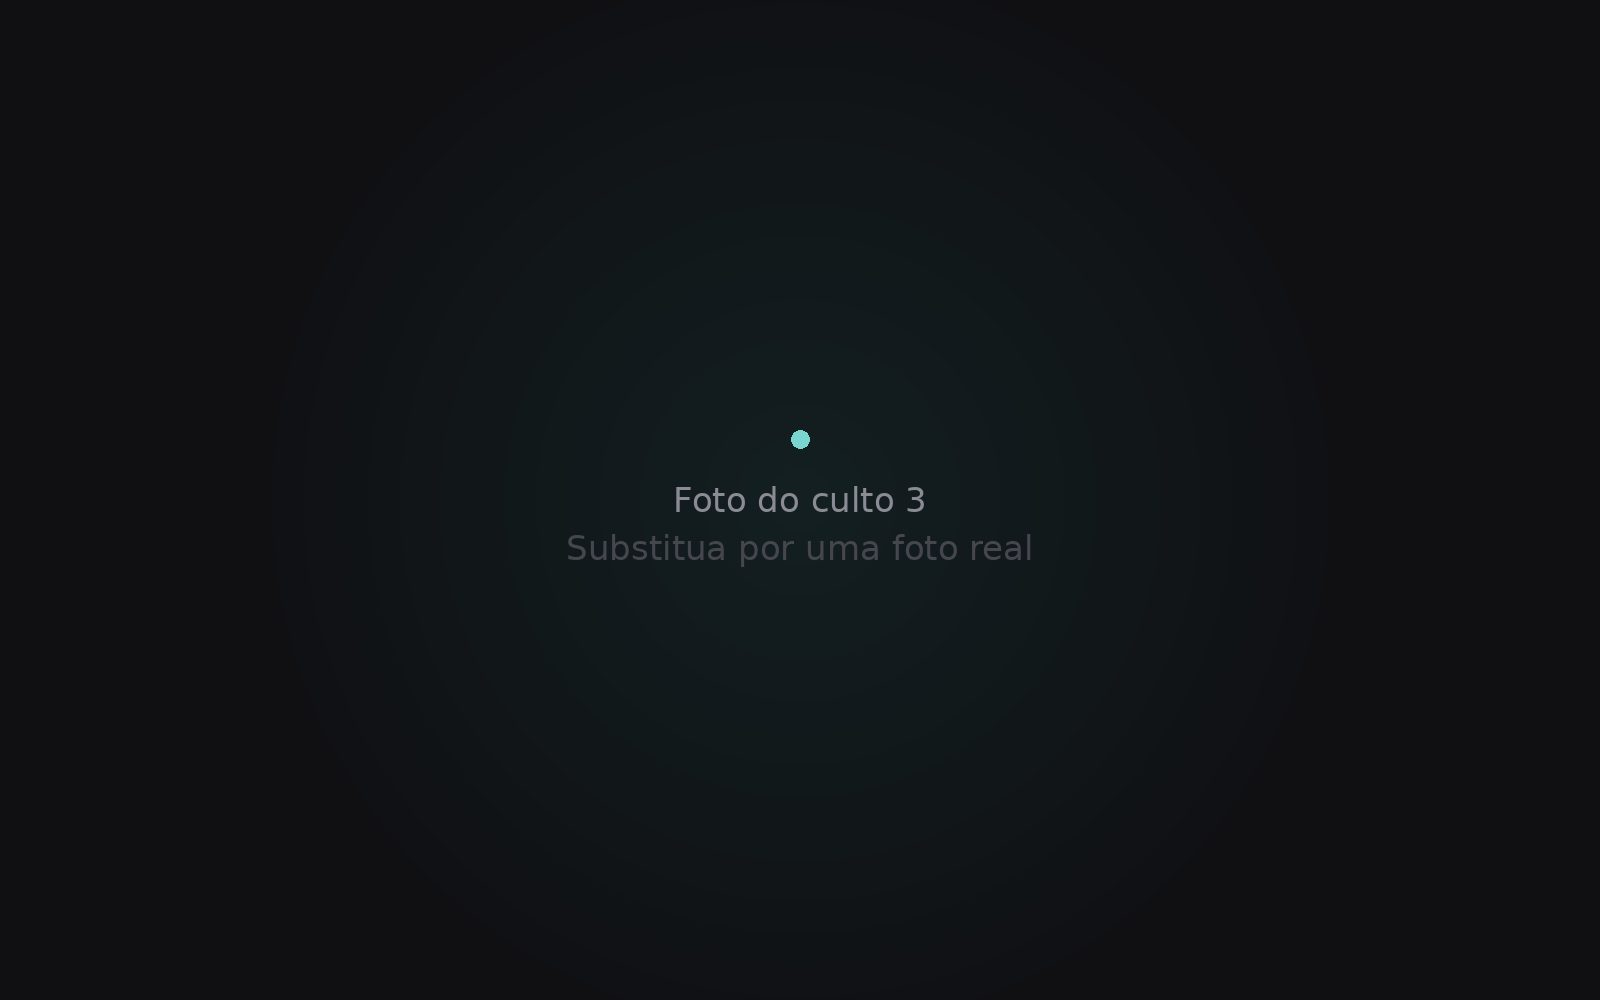
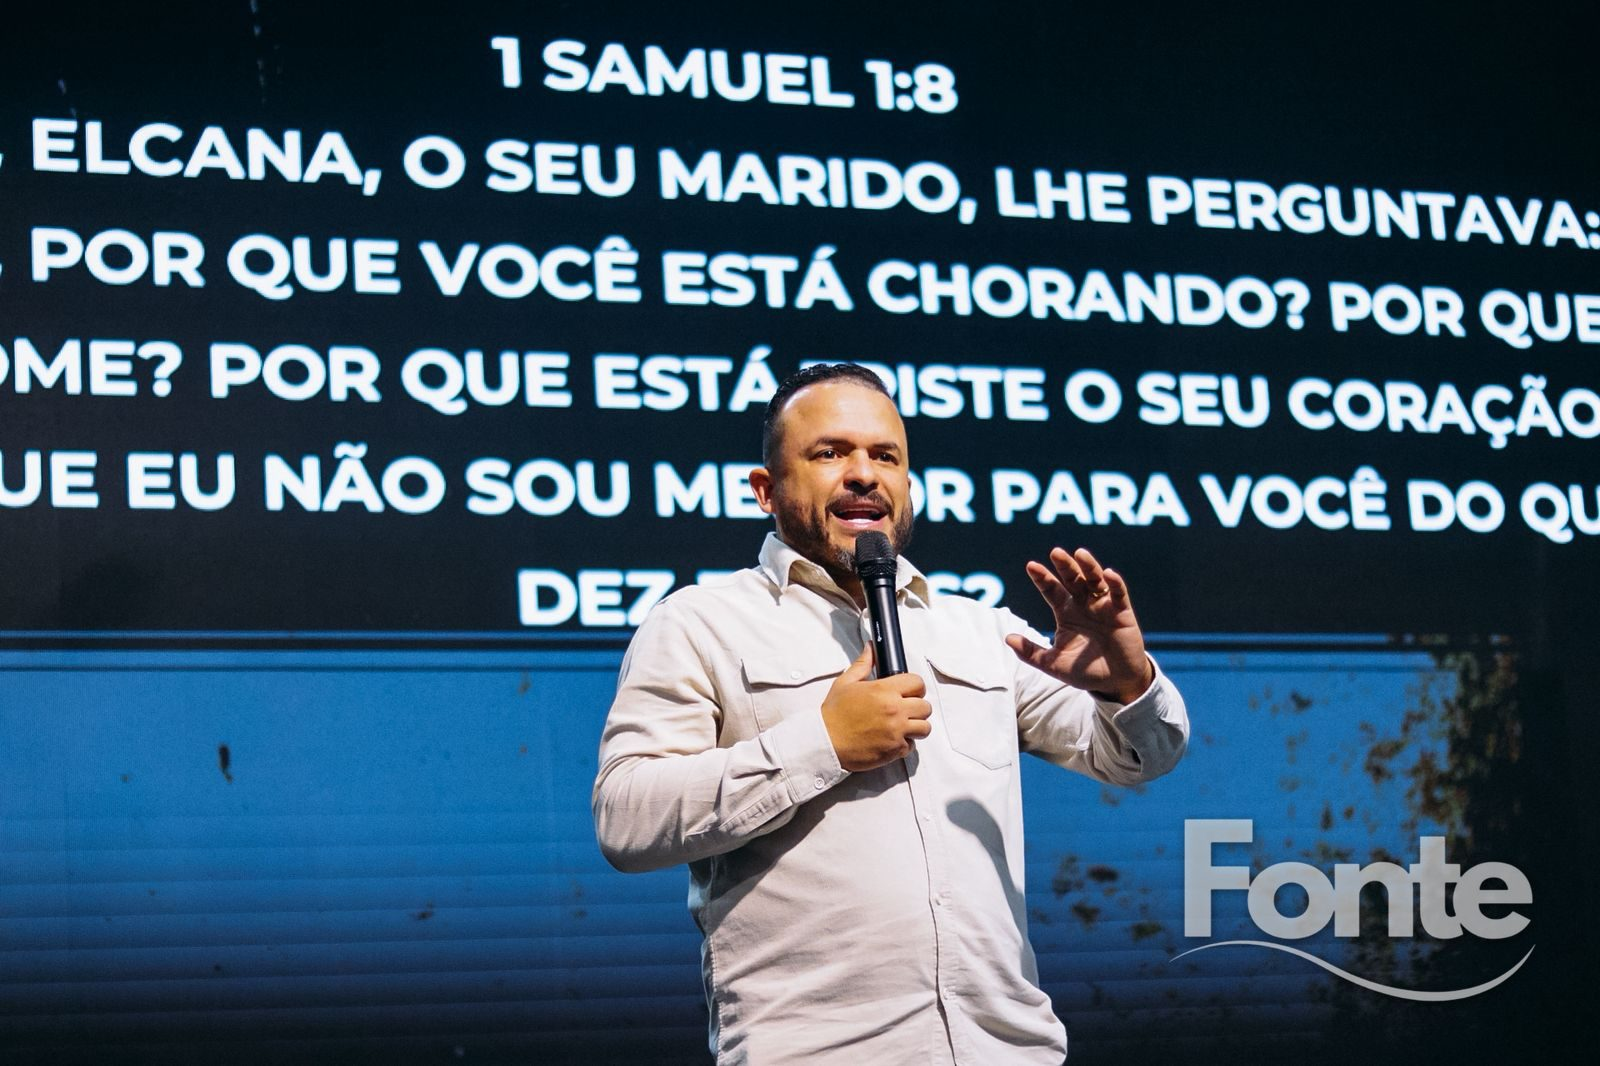
Fotos: marca dagua Fonte no canto

diff --git a/galeria.html b/galeria.html
@@ -20,48 +20,62 @@
   html{scroll-behavior:smooth}
   body{background:var(--abismo);color:var(--luz);font-family:var(--corpo);line-height:1.7;-webkit-font-smoothing:antialiased}
   a{color:inherit;text-decoration:none}
-  img{max-width:100%;display:block}
-  .top{position:sticky;top:0;z-index:10;background:rgba(10,10,11,.82);backdrop-filter:blur(10px);border-bottom:var(--borda)}
-  .top-in{max-width:960px;margin:0 auto;padding:16px 22px;display:flex;align-items:center;justify-content:space-between;gap:16px}
+  img{display:block;max-width:100%}
+  .top{position:sticky;top:0;z-index:20;background:rgba(10,10,11,.82);backdrop-filter:blur(10px);border-bottom:var(--borda)}
+  .top-in{max-width:1200px;margin:0 auto;padding:16px 22px;display:flex;align-items:center;justify-content:space-between;gap:16px}
   .logo{width:104px;height:40px;background:url('assets/fonte-logo.png') left center/contain no-repeat;display:block}
   .voltar{color:var(--cinza);font-size:.9rem;transition:color .2s}
   .voltar:hover{color:var(--luz)}
-  .wrap{max-width:960px;margin:0 auto;padding:56px 22px 40px}
+
+  /* ===== hero carrossel full-width ===== */
+  .hero-c{position:relative;width:100%;height:clamp(400px,70vh,720px);overflow:hidden;background:#000}
+  .hc-track{display:flex;height:100%;transition:transform .6s cubic-bezier(.4,0,.2,1);will-change:transform}
+  .hc-slide{flex:0 0 100%;height:100%}
+  .hc-slide img{width:100%;height:100%;object-fit:cover}
+  .hc-scrim{position:absolute;inset:0;pointer-events:none;
+            background:linear-gradient(to top,rgba(0,0,0,.6),transparent 42%),linear-gradient(to bottom,rgba(0,0,0,.35),transparent 30%)}
+  .hc-cap{position:absolute;left:0;right:0;bottom:0;padding:0 22px 40px;z-index:3}
+  .hc-cap .in{max-width:1200px;margin:0 auto}
+  .hc-cap .eyebrow{font-size:.72rem;letter-spacing:.22em;text-transform:uppercase;color:#dff4f2;font-weight:600;opacity:.9}
+  .hc-cap h1{font-family:var(--display);font-weight:700;font-size:clamp(2.2rem,6vw,4rem);line-height:1;margin-top:8px;text-shadow:0 2px 30px rgba(0,0,0,.5)}
+  .hc-nav{position:absolute;top:50%;transform:translateY(-50%);z-index:4;width:56px;height:56px;border:0;cursor:pointer;
+          background:transparent;color:#fff;font-size:3rem;line-height:1;opacity:.8;transition:opacity .2s,transform .2s;
+          text-shadow:0 2px 16px rgba(0,0,0,.6);display:flex;align-items:center;justify-content:center}
+  .hc-nav:hover{opacity:1}
+  .hc-nav.prev{left:6px} .hc-nav.prev:hover{transform:translateY(-50%) translateX(-3px)}
+  .hc-nav.next{right:6px} .hc-nav.next:hover{transform:translateY(-50%) translateX(3px)}
+  .hc-dots{position:absolute;left:0;right:0;bottom:16px;z-index:4;display:flex;gap:8px;justify-content:center;flex-wrap:wrap}
+  .hc-dot{width:8px;height:8px;border-radius:50%;background:rgba(255,255,255,.45);border:0;cursor:pointer;padding:0;transition:all .25s}
+  .hc-dot.on{background:var(--agua);width:24px;border-radius:100px}
+
+  /* ===== conteúdo ===== */
+  .wrap{max-width:1200px;margin:0 auto;padding:48px 22px 40px}
+  .intro{display:flex;flex-wrap:wrap;align-items:end;justify-content:space-between;gap:20px;margin-bottom:30px}
+  .intro .txt{max-width:56ch}
   .eyebrow{font-size:.72rem;letter-spacing:.22em;text-transform:uppercase;color:var(--cinza);font-weight:600}
-  h1{font-family:var(--display);font-weight:700;font-size:clamp(2rem,5vw,2.9rem);line-height:1.05;margin:10px 0 12px}
-  .sub{color:var(--cinza-claro);max-width:56ch;margin-bottom:22px}
-  .btn-drive{display:inline-flex;align-items:center;gap:8px;background:var(--agua);color:#04201f;
-             font-weight:600;padding:12px 22px;border-radius:100px;transition:transform .15s,background .2s}
+  .intro h2{font-family:var(--display);font-weight:700;font-size:clamp(1.6rem,3.5vw,2.2rem);line-height:1.05;margin:8px 0}
+  .intro p{color:var(--cinza-claro)}
+  .btn-drive{display:inline-flex;align-items:center;gap:8px;background:var(--agua);color:#04201f;white-space:nowrap;
+             font-weight:600;padding:13px 24px;border-radius:100px;transition:transform .15s,background .2s}
   .btn-drive:hover{background:var(--agua-forte);transform:translateY(-1px)}
 
-  /* ---- carrossel ---- */
-  .carrossel{position:relative;margin-top:34px}
-  .c-viewport{overflow:hidden;border-radius:18px}
-  .c-track{display:flex;transition:transform .5s cubic-bezier(.4,0,.2,1);will-change:transform}
-  .c-slide{flex:0 0 100%;position:relative}
-  .c-slide img{width:100%;aspect-ratio:16/10;object-fit:cover;background:var(--grafite)}
-  .c-cap{position:absolute;left:0;right:0;bottom:0;padding:34px 22px 16px;color:var(--luz);font-size:.95rem;
-         background:linear-gradient(to top,rgba(0,0,0,.72),transparent)}
-  .c-nav{position:absolute;top:50%;transform:translateY(-50%);width:44px;height:44px;border-radius:50%;
-         border:var(--borda);background:rgba(10,10,11,.55);backdrop-filter:blur(6px);color:var(--luz);
-         font-size:1.5rem;line-height:1;cursor:pointer;display:flex;align-items:center;justify-content:center;
-         transition:background .2s,border-color .2s;z-index:2}
-  .c-nav:hover{background:rgba(10,10,11,.85);border-color:var(--agua)}
-  .c-nav.prev{left:12px} .c-nav.next{right:12px}
-  .c-dots{display:flex;gap:8px;justify-content:center;margin-top:16px;flex-wrap:wrap}
-  .c-dot{width:8px;height:8px;border-radius:50%;background:var(--neblina);border:0;cursor:pointer;padding:0;transition:all .2s}
-  .c-dot.on{background:var(--agua);width:22px;border-radius:100px}
-  .c-vazio{padding:60px 22px;text-align:center;color:var(--cinza);border:1px dashed var(--neblina);border-radius:18px}
+  .grid{display:grid;grid-template-columns:repeat(auto-fill,minmax(220px,1fr));gap:12px}
+  .grid button{border:0;padding:0;margin:0;background:var(--grafite);cursor:pointer;border-radius:14px;overflow:hidden;position:relative;aspect-ratio:1/1}
+  .grid img{width:100%;height:100%;object-fit:cover;transition:transform .4s,opacity .3s;opacity:.9}
+  .grid button:hover img{transform:scale(1.05);opacity:1}
+  .grid button:focus-visible{outline:2px solid var(--agua);outline-offset:2px}
 
-  .foot-base{max-width:960px;margin:40px auto 0;padding:22px;border-top:var(--borda);display:flex;
+  .foot-base{max-width:1200px;margin:44px auto 0;padding:22px;border-top:var(--borda);display:flex;
              justify-content:space-between;gap:16px;flex-wrap:wrap;color:var(--cinza);font-size:.82rem}
   .foot-base .dev-cred{color:var(--agua)}
   .foot-legais{display:flex;gap:20px;flex-wrap:wrap}
   .foot-legais a{color:var(--cinza);transition:color .2s}
   .foot-legais a:hover{color:var(--luz)}
+
   @media(max-width:560px){
-    .c-slide img{aspect-ratio:4/3}
-    .c-nav{width:38px;height:38px;font-size:1.3rem}
+    .hero-c{height:clamp(340px,58vh,520px)}
+    .hc-nav{width:44px;height:44px;font-size:2.2rem}
+    .grid{grid-template-columns:repeat(2,1fr);gap:8px}
   }
 </style>
 </head>
@@ -73,18 +87,25 @@
     </div>
   </header>
 
-  <main class="wrap">
-    <span class="eyebrow">Galeria</span>
-    <h1>Fotos dos cultos</h1>
-    <p class="sub">Momentos de adoração e comunhão na Fonte. Veja alguns registros abaixo e o álbum completo no nosso Drive.</p>
-    <a class="btn-drive" id="btnDrive" href="#" target="_blank" rel="noopener">Ver álbum completo no Drive ↗</a>
+  <section class="hero-c" id="hero">
+    <div class="hc-track" id="track"></div>
+    <div class="hc-scrim"></div>
+    <div class="hc-cap"><div class="in"><span class="eyebrow">Galeria</span><h1>Momentos na Fonte</h1></div></div>
+    <button class="hc-nav prev" id="prev" aria-label="Foto anterior">‹</button>
+    <button class="hc-nav next" id="next" aria-label="Próxima foto">›</button>
+    <div class="hc-dots" id="dots"></div>
+  </section>
 
-    <div class="carrossel" id="carrossel">
-      <div class="c-viewport"><div class="c-track" id="track"></div></div>
-      <button class="c-nav prev" id="prev" aria-label="Foto anterior">‹</button>
-      <button class="c-nav next" id="next" aria-label="Próxima foto">›</button>
-      <div class="c-dots" id="dots"></div>
+  <main class="wrap">
+    <div class="intro">
+      <div class="txt">
+        <span class="eyebrow">Fotos dos cultos</span>
+        <h2>Adoração, palavra e comunhão</h2>
+        <p>Uma seleção dos nossos cultos. Veja o álbum completo, com todas as fotos, no nosso Drive.</p>
+      </div>
+      <a class="btn-drive" id="btnDrive" href="#" target="_blank" rel="noopener">Ver álbum completo no Drive ↗</a>
     </div>
+    <div class="grid" id="grid"></div>
   </main>
 
   <footer class="foot-base">
@@ -99,10 +120,8 @@
 <script>
 /* ======================================================================
    CONFIG — edite só esta parte
-   ---------------------------------------------------------------------
    1) ALBUM_DRIVE: cole o link da pasta compartilhada do Google Drive.
-   2) FOTOS: liste as fotos (coloque os arquivos em assets/galeria/).
-      'cap' é a legenda (opcional) — pode deixar '' se não quiser.
+   2) FOTOS: liste as fotos (arquivos em assets/galeria/). 'cap' é opcional.
    ====================================================================== */
 const ALBUM_DRIVE = "#"; // ex.: "https://drive.google.com/drive/folders/SEU_ID"
 
@@ -110,36 +129,44 @@ const FOTOS = [
   { src:'assets/galeria/culto-1.jpg', cap:'' },
   { src:'assets/galeria/culto-2.jpg', cap:'' },
   { src:'assets/galeria/culto-3.jpg', cap:'' },
+  { src:'assets/galeria/culto-4.jpg', cap:'' },
+  { src:'assets/galeria/culto-5.jpg', cap:'' },
+  { src:'assets/galeria/culto-6.jpg', cap:'' },
+  { src:'assets/galeria/culto-7.jpg', cap:'' },
+  { src:'assets/galeria/culto-8.jpg', cap:'' },
+  { src:'assets/galeria/culto-9.jpg', cap:'' },
 ];
 /* ===================== fim da configuração ===================== */
 
 (() => {
   const track=document.getElementById('track');
   const dots=document.getElementById('dots');
-  const carrossel=document.getElementById('carrossel');
+  const grid=document.getElementById('grid');
+  const hero=document.getElementById('hero');
   const btn=document.getElementById('btnDrive');
 
-  // botão do Drive
   if(ALBUM_DRIVE && ALBUM_DRIVE!=='#'){ btn.href=ALBUM_DRIVE; }
-  else { btn.addEventListener('click',e=>{e.preventDefault();alert('Defina o link do álbum em ALBUM_DRIVE (no topo do script).');}); }
+  else { btn.addEventListener('click',e=>{e.preventDefault();alert('Defina o link do álbum em ALBUM_DRIVE (no topo do script da galeria.html).');}); }
 
-  if(!FOTOS.length){
-    carrossel.innerHTML='<div class="c-vazio">Adicione fotos em <b>assets/galeria/</b> e liste-as em <b>FOTOS</b>.</div>';
-    return;
-  }
+  if(!FOTOS.length){ hero.style.display='none'; return; }
 
   let i=0, timer=null;
-  // monta slides + bolinhas
+
   FOTOS.forEach((f,idx)=>{
-    const s=document.createElement('div'); s.className='c-slide';
+    // slide do carrossel
+    const s=document.createElement('div'); s.className='hc-slide';
     const img=document.createElement('img');
     img.src=f.src; img.alt=f.cap||('Foto do culto '+(idx+1)); img.loading=idx?'lazy':'eager';
-    s.appendChild(img);
-    if(f.cap){ const c=document.createElement('div'); c.className='c-cap'; c.textContent=f.cap; s.appendChild(c); }
-    track.appendChild(s);
-    const d=document.createElement('button'); d.className='c-dot'+(idx?'':' on');
+    s.appendChild(img); track.appendChild(s);
+    // bolinha
+    const d=document.createElement('button'); d.className='hc-dot'+(idx?'':' on');
     d.setAttribute('aria-label','Ir para foto '+(idx+1)); d.onclick=()=>go(idx);
     dots.appendChild(d);
+    // miniatura da grade
+    const b=document.createElement('button'); b.setAttribute('aria-label','Ver foto '+(idx+1));
+    const t=document.createElement('img'); t.src=f.src; t.alt=f.cap||('Foto do culto '+(idx+1)); t.loading='lazy';
+    b.appendChild(t); b.onclick=()=>{ go(idx); hero.scrollIntoView({behavior:'smooth'}); };
+    grid.appendChild(b);
   });
 
   const go=n=>{
@@ -149,28 +176,23 @@ const FOTOS = [
     reinicia();
   };
   const prox=()=>go(i+1), ant=()=>go(i-1);
-
   document.getElementById('next').onclick=prox;
   document.getElementById('prev').onclick=ant;
-
-  // teclado
   document.addEventListener('keydown',e=>{ if(e.key==='ArrowRight')prox(); if(e.key==='ArrowLeft')ant(); });
 
   // arrastar / swipe
   let x0=null;
-  const vp=carrossel.querySelector('.c-viewport');
-  vp.addEventListener('touchstart',e=>{x0=e.touches[0].clientX;},{passive:true});
-  vp.addEventListener('touchend',e=>{ if(x0===null)return; const dx=e.changedTouches[0].clientX-x0;
+  hero.addEventListener('touchstart',e=>{x0=e.touches[0].clientX;},{passive:true});
+  hero.addEventListener('touchend',e=>{ if(x0===null)return; const dx=e.changedTouches[0].clientX-x0;
     if(Math.abs(dx)>40){ dx<0?prox():ant(); } x0=null; });
 
-  // autoplay (pausa no hover)
-  const auto=()=>{ timer=setInterval(prox, 5500); };
+  // autoplay
+  const auto=()=>{ timer=setInterval(prox,5500); };
   const reinicia=()=>{ clearInterval(timer); auto(); };
-  carrossel.addEventListener('mouseenter',()=>clearInterval(timer));
-  carrossel.addEventListener('mouseleave',auto);
+  hero.addEventListener('mouseenter',()=>clearInterval(timer));
+  hero.addEventListener('mouseleave',auto);
   document.addEventListener('visibilitychange',()=>{ document.hidden?clearInterval(timer):auto(); });
 
-  // esconde setas/bolinhas se só tiver 1 foto
   if(FOTOS.length<2){ document.getElementById('prev').style.display='none'; document.getElementById('next').style.display='none'; dots.style.display='none'; }
   else auto();
 })();

diff --git a/index.html b/index.html
@@ -215,6 +215,7 @@
   .leaflet-popup-content{margin:14px 16px;font-size:.9rem}
   .leaflet-popup-content b{font-family:var(--display);font-size:1.05rem}
   .leaflet-popup-content .p-hora{color:var(--agua);font-weight:600}
+  .leaflet-popup-content .p-foto{width:100%;height:130px;object-fit:cover;border-radius:8px;margin-bottom:8px;display:block}
   .leaflet-popup-close-button{color:var(--cinza)!important}
   .leaflet-control-zoom a{background:var(--grafite)!important;color:var(--luz)!important;
      border-color:var(--neblina)!important}
@@ -780,7 +781,7 @@ const CELULAS=[
   {nome:'Ebenézer',lider:'Sóstenes e Kelly',end:'Rua das Alpínias, 577 — Portal dos Ipês',hora:'20h',cidade:'Cajamar',lat:-23.3988088,lng:-46.859581},
   {nome:'Betel',lider:'Rodnei e Débora',end:'Av. das Palmeiras, 720 — ap.97 (Portal)',hora:'19h30',cidade:'Cajamar',lat:-23.4041966,lng:-46.8627586},
   {nome:'Transbordo',lider:'Marlucia e Cícero',end:'Rua Cosmópolis, 123 — Pq. Paraíso',hora:'Sáb 19h',cidade:'Cajamar',lat:-23.4192869,lng:-46.8263836},
-  {nome:'Ekklesia',lider:'Carol e Claiton',end:'Rua das Malvas, 245 — Portal dos Ipês',hora:'20h',cidade:'Cajamar',lat:-23.3968332,lng:-46.8646969},
+  {nome:'Ekklesia',lider:'Carol e Claiton',end:'Rua das Malvas, 245 — Portal dos Ipês',hora:'20h',cidade:'Cajamar',lat:-23.3968332,lng:-46.8646969,foto:'assets/celulas/ekklesia.jpg'},
   {nome:'Atos 29',lider:'Nicolas e Agatha',end:'Rua Campos do Jordão, 175 — Cond. Vitória 1 (Polvilho/Panorama)',hora:'19h30',cidade:'Cajamar',lat:-23.4129728,lng:-46.8455715},
   {nome:'Yeshua',lider:'Marcio e Nina',end:'Rua dos Araçás, 17 — Bairro Cimiga',hora:'20h',cidade:'Cajamar',lat:-23.3527921,lng:-46.8752369},
   {nome:'Identidade',lider:'Douglas e Fran',end:'Rua das Caliandras, 401 — Portal 3',hora:'20h',cidade:'Cajamar',lat:-23.3991101,lng:-46.8573909},
@@ -816,7 +817,7 @@ function initMapa(){
   const pts=[ANCHOR.igreja,...CELULAS.map(c=>[c.lat,c.lng])];
   mapa.fitBounds(L.latLngBounds(pts).pad(0.12));
 }
-function popupHtml(c){return `<b>${c.nome}</b>${c.tag?` · <span style="color:var(--agua);font-size:.75rem">${c.tag}</span>`:''}<br>${c.lider}<br><span style="color:var(--cinza)">${c.end}</span>${c.hora?`<br><span class="p-hora">${c.hora}</span>`:''}`;}
+function popupHtml(c){return `${c.foto?`<img class="p-foto" src="${c.foto}" alt="Célula ${c.nome}" loading="lazy">`:''}<b>${c.nome}</b>${c.tag?` · <span style="color:var(--agua);font-size:.75rem">${c.tag}</span>`:''}<br>${c.lider}<br><span style="color:var(--cinza)">${c.end}</span>${c.hora?`<br><span class="p-hora">${c.hora}</span>`:''}`;}
 
 const celLista=document.getElementById('celLista'),celFiltros=document.getElementById('celFiltros');
 const celMais=document.getElementById('celMais'),celPainel=celLista.closest('.cel-painel');